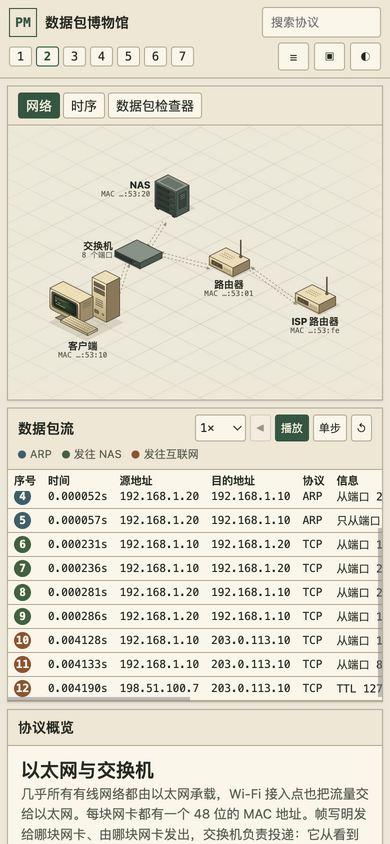
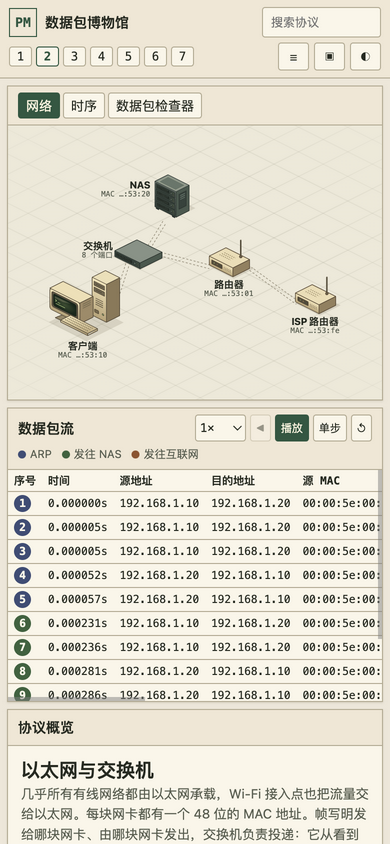
以太网课程显示填充、并行洪泛与 MAC 地址学习

Changed region(s): [[0.0308, 0.5545, 0.9846, 0.8318]]

diff --git a/src/lessons/ethernet/index.js b/src/lessons/ethernet/index.js
@@ -20,15 +20,24 @@ const stepEnds = [0, 1, 3, 5, 9, 11, 12];
 export default {
   meta: { id: 'ethernet', title: 'Ethernet', subtitle: '帧与交换机', group: 1, order: 20, layer: 2 },
   overview, outro, nodes, links, frames,
-  sequenceNodes: ['client', 'switch', 'lan', 'router', 'isp'],
+  sequenceNodes: ['client', 'switch', 'lan', 'router', 'isp'], linkAddresses: true, timeColumn: true,
   legend: {
-    arp: { label: 'ARP', tone: 'query' },
+    arp: { label: 'ARP', tone: 'navy' },
     nas: { label: '发往 NAS', tone: 'reply' },
     internet: { label: '发往互联网', tone: 'referral' },
   },
   steps: steps.map((step, i) => ({
     ...step, frames: frames.slice(stepEnds[i], stepEnds[i + 1]).map(frame => frame.id),
     ...(i === 0 ? { closeup: ['client'] } : {}),
+    ...(i === 1 ? {
+      parallel: [['ethernet-2', 'ethernet-3']],
+      nodeUpdates: { switch: { status: '…:53:10 → 端口 1' } },
+      events: [{ node: 'switch', time: '0.000005s', text: '…:53:10 在端口 1' }],
+    } : {}),
+    ...(i === 2 ? {
+      nodeUpdates: { switch: { status: ':53:10→1 · :53:20→2', after: 'ethernet-4' }, client: { status: 'ARP：192.168.1.20 → …:53:20', after: 'ethernet-5' } },
+      events: [{ node: 'switch', time: '0.000052s', after: 'ethernet-4', text: '…:53:20 在端口 2' }],
+    } : {}),
     ...(i === 5 ? { wide: true } : { nodes: local }),
   })),
 };

diff --git a/src/lessons/ethernet/frames.js b/src/lessons/ethernet/frames.js
@@ -5,10 +5,9 @@ const routerMac = '00:00:5e:00:53:01', uplinkMac = '00:00:5e:00:53:02', ispMac =
 const clientIp = '192.168.1.10', nasIp = '192.168.1.20', publicIp = '198.51.100.7', webIp = '203.0.113.10';
 const broadcast = 'ff:ff:ff:ff:ff:ff';
 
-// shortcut: omit Ethernet padding until the shared inspector can separate it from ARP.
-const request = ethernet({ src: clientMac, dst: broadcast, type: 0x0806,
+const request = ethernet({ src: clientMac, dst: broadcast, type: 0x0806, pad: true,
   payload: arp({ operation: 1, senderMac: clientMac, senderIp: clientIp, targetIp: nasIp }) });
-const reply = ethernet({ src: nasMac, dst: clientMac, type: 0x0806,
+const reply = ethernet({ src: nasMac, dst: clientMac, type: 0x0806, pad: true,
   payload: arp({ operation: 2, senderMac: nasMac, senderIp: nasIp, targetMac: clientMac, targetIp: clientIp }) });
 
 function tcpFrame(srcMac, dstMac, { src, dst, id, ttl, srcPort, dstPort, seq, ack = 0 }) {
